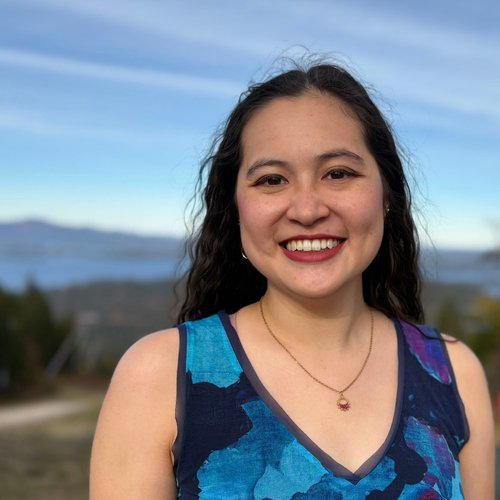
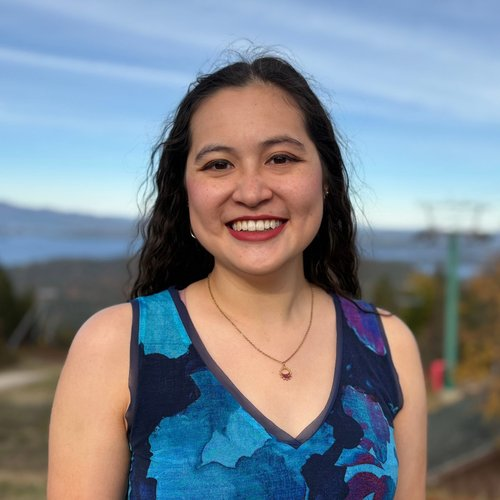
Recenter Stephanie's headshot; update Elsa photo caption (preview)
Claude-Session: https://claude.ai/code/session_01UPDjymevHVsg8Usx9JxUAi

diff --git a/index.html b/index.html
@@ -1008,7 +1008,7 @@ footer { padding-block: 40px; border-top: 1px solid var(--line); color: var(--mu
   <div class="wrap">
     <div class="sec-head"><p class="eyebrow">News</p><h2>Lately</h2></div>
     <div class="news"><ul>
-      <li><span class="d">Nov 2026</span><span>Two Cathy Bulman Awards at the 2026 MPBP Annual Retreat: undergraduate researcher Elsa wins Best Flash Talk, and Amila wins Best Poster.<figure class="news-photo"><img loading="lazy" src="media/news-elsa-poster-2026.jpg" alt="Elsa Williams smiling beside her poster, Identifying Mitotic Mechanisms of Resistance to KIF18A Inhibition in CIN Cells" width="1200" height="901"><figcaption>Elsa with her poster on resistance to KIF18A inhibitors.</figcaption></figure></span></li>
+      <li><span class="d">Nov 2026</span><span>Two Cathy Bulman Awards at the 2026 MPBP Annual Retreat: undergraduate researcher Elsa wins Best Flash Talk, and Amila wins Best Poster.<figure class="news-photo"><img loading="lazy" src="media/news-elsa-poster-2026.jpg" alt="Elsa Williams smiling beside her poster, Identifying Mitotic Mechanisms of Resistance to KIF18A Inhibition in CIN Cells" width="1200" height="901"><figcaption>Elsa with her poster at the 2026 MPBP retreat.</figcaption></figure></span></li>
       <li><span class="d">Oct 2026</span><span>Amila wins Best Poster at the CMB Halloween Poster Session.</span></li>
       <li><span class="d">Aug 2026</span><span>The UVM Cancer Center <a href="https://www.uvm.edu/larnermed/uvmcancercenter/news/season-success-celebrating-trainee-amila-semics-publications-f31">highlights Amila's recent successes</a>: two publications and an F31 fellowship.</span></li>
       <li><span class="d">Aug 2026</span><span>Amila's paper on the phosphorylation switch that controls KIF11 force output is <a href="https://doi.org/10.1073/pnas.2602415123">out in <i>PNAS</i></a>.</span></li>
